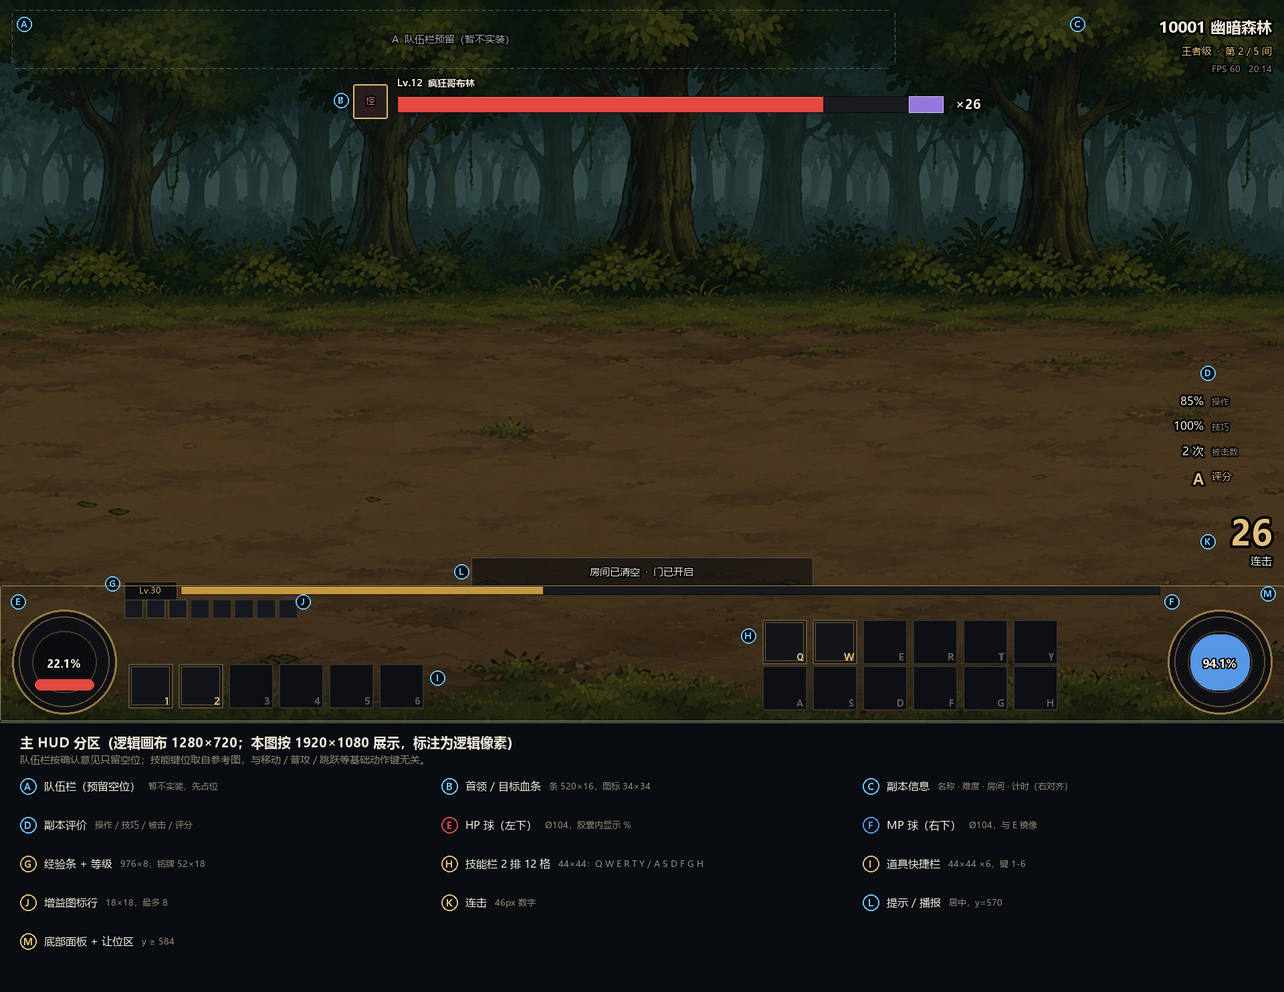
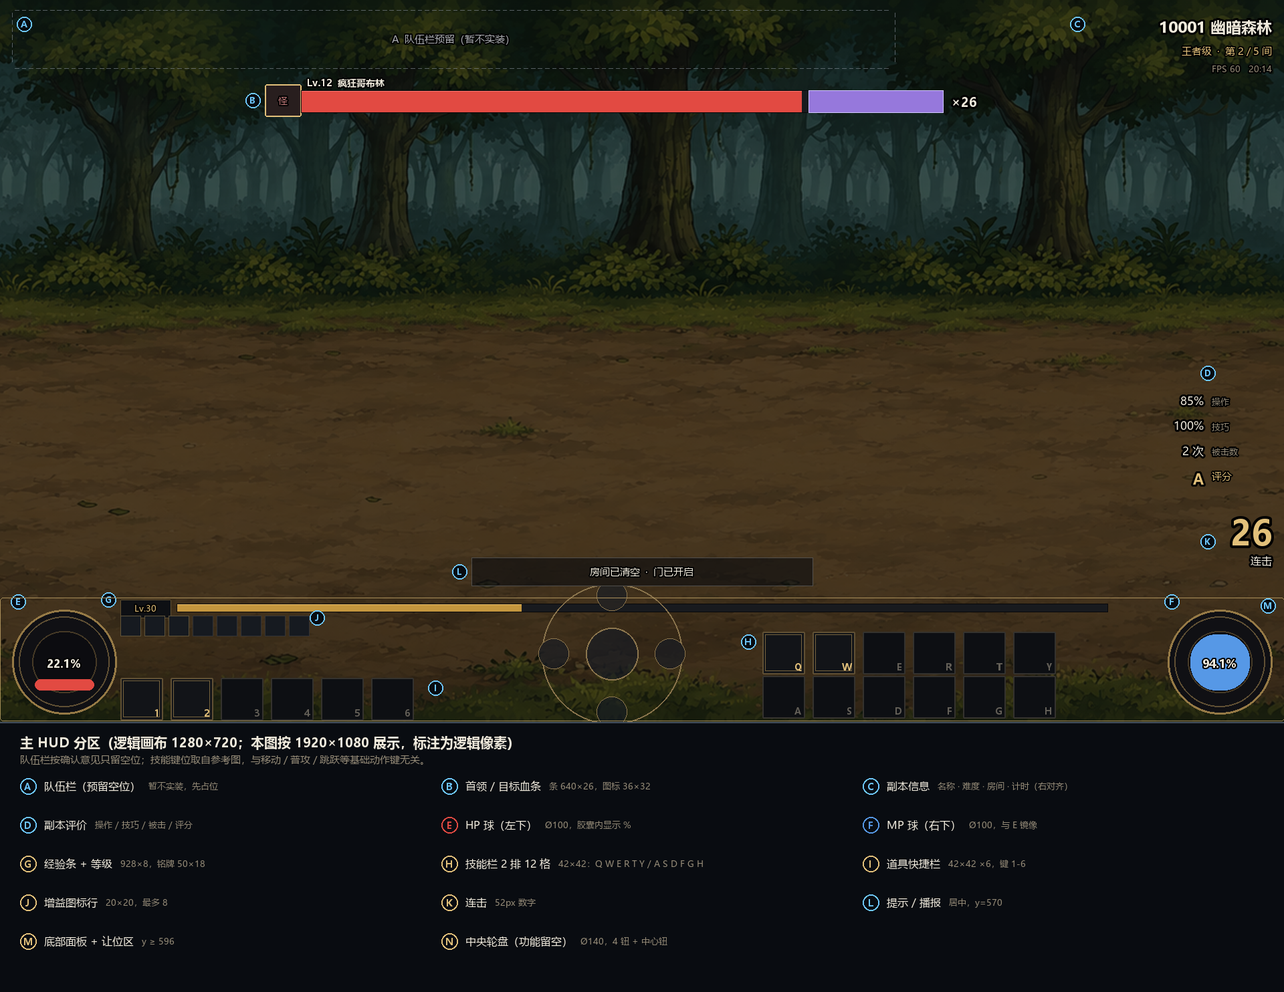
[ws2] 资源：首批生图HUD资产(底板/双球/槽框/轮盘)与1920合成样张；设计同步布局精度与轮盘

diff --git a/docs/design/24_主HUD设计.md b/docs/design/24_主HUD设计.md
@@ -1,157 +1,135 @@
 # 24 主 HUD 设计
 
-状态：草案（2026-10-18 首版；同日按使用者确认意见修订：队伍栏只留空位、技能栏双排 12 格、风格完全参考原图）。尚未实装。
-关联：[11 实机表现层管线](11_实机表现层管线.md) · [16 美术资源总清单](16_美术资源总清单.md) · [22 资产画面规格](22_资产画面规格.md) · [06 文档规范](../project/06_文档规范.md)
+状态：草案（2026-10-18 首版；同日按使用者确认意见修订：队伍栏只留空位、技能栏双排 12 格、风格完全参考原图、中央轮盘要有功能位、所有 UI 资源走生图）。尚未实装。
+关联：[11 实机表现层管线](11_实机表现层管线.md) · [16 美术资源总清单](16_美术资源总清单.md) · [22 资产画面规格](22_资产画面规格.md) · [21 美术目录与资产归档](21_美术目录与资产归档.md)
 
-布局图：[主 HUD 分区布局图](../previews/hud_redesign/layout_spec_1920.png)（1920×1080 线框展示，标注值为 1280×720 逻辑像素）
+- 分区线框：[layout_spec_1920.png](../previews/hud_redesign/layout_spec_1920.png)
+- 首版材质样张（生图资产 + 实机画面合成）：[mockup_1920.png](../previews/hud_redesign/mockup_1920.png)
+- 首批资产与清单：`art/ui/hud/theme_v1/`（`manifest.json` 记录来源、尺寸、用途）
 
 ## 一、结论
 
-- **现行 HUD 的问题**（`game/scripts/hud.gd` 程序绘制版）：信息挤在左上角、技能栏单排且无道具格、无左右下角球体、无经验/评价/增益图标、字体层级弱、整条底栏只有一层半透明渐变，跟参考的"金属底板 + 分区锚定"不是一个结构。按使用者判断"几乎都不对"，**重做而不是修补**。
+- **现行 HUD 的问题**：信息挤左上、技能单排无道具格、无左右球体、无经验/评价/增益、字体层级弱、底栏只有一层半透明渐变；与参考的"金属底板 + 分区锚定"完全不是一个结构，按使用者判断重做。
 - **已确认（2026-10-18）**：
-  1. **队伍栏暂不实装**，只在左上留出空位，以后有组队需求再补；
-  2. **技能栏复刻参考的双排 12 格**，键位取 Q W E R T Y / A S D F G H；这套键位**只用于技能**，与移动、普攻、跳跃等基础动作键（← → ↑ ↓、X、C、Z 等）互不相干；
-  3. **视觉完全参考原图**（暗蓝金属 + 古金浮雕），能做出来的资源就按原图做。
-- **新方案**：13 个分区，全部按四角 / 中轴锚定，逻辑坐标写死、美术按 2K 原生出图；底部主栏（球、经验、道具、技能）作为一组整体让位，保留现行"角色走到路面前沿底栏淡出"的行为。
-- **本期顺序**：P0 骨架 + 程序占位并接真数据 → P1 换底板/球/槽九宫格 → P2 补技能/道具/增益/评分图标 → P3 双分辨率验收。
-- **水印**：参考截图只用于测量分区与比例，不进入仓库、不切像素、不派生任何资产；布局图是重新绘制的线框。此后本项目的 HUD 样张、实机截图、评审板一律不得出现第三方水印或上传者昵称。
+  1. 队伍栏**暂不实装**，只在左上留 880×58 空位；
+  2. 技能栏**双排 12 格**，键位 Q W E R T Y / A S D F G H，只用于技能，与移动/普攻/跳跃等基础动作键无关；格内放什么由玩家自定义，**默认填当前已有技能**（每职业 2 个），其余空槽；
+  3. 视觉**完全参考原图**（藏蓝珐琅 + 古金浮雕）；
+  4. 评价面板**先不做真数据**，只出样式占位；
+  5. 中央圆形轮盘**要做且要留功能**，当前功能先留空；
+  6. **所有 UI 资源必须通过生图生成**（特殊小元素除外），不能用纯色块代替。
+- **本轮已交付**：13 分区布局线框、5 件生图资产（底板/双球/槽框/轮盘）、一张 1920×1080 合成样张；正式实装与图标集未开始。
+- **水印**：参考截图只用于测量，不进入仓库、不切像素；样张与线框均为重绘/生图产物，不含任何第三方水印或昵称。
 
 ## 二、参考图拆解
 
-| 编号 | 参考区域 | 参考里的内容 | 本作现状 / 数据 | 本期取舍 |
-|---|---|---|---|---|
-| A | 队伍 / 自身状态 | 4 人一排：头像+等级角标、名字、HP/MP 双条、下方增益小图标 | 单人游戏，无队伍系统 | **不做，只留 880×58 空位**（虚线框标"预留"） |
-| B | 首领 / 目标血条 | 左类型图标（"人形"）、`Lv61 名字`、红色长条、右端紫色段、右侧 `×26` | 有目标怪 HP、名字、等级；主循环已统计同种存活数 | 做。紫段 = 霸体/护盾（对应 super_armor）；`×N` = 同种剩余 |
-| C | 副本信息 | 右上：副本名 + 难度（王者级）、FPS | 有副本名、`role_label`、房间进度、计时 | 做。FPS 归入调试开关（F3 已有关闭逻辑） |
-| D | 副本评价 | 右侧竖排：操作 85%、技巧 100%、被击 2 次、评分 A | 已统计 `damage_taken / best_chain / hit_count`，`runtime.json` 有 S/A/B 评价表 | 做。被击=受击次数；操作=连段/命中率；技巧=技能与格挡成功；评分沿用配置表 |
-| E/F | HP / MP 球 | 左下、右下齿轮圆框 + 胶囊液面 + 百分比 | HP/MP 数值齐全 | 做。胶囊内 15px 百分比，精确值走 tooltip / 长按 |
-| G | 经验条 + 等级 | `Lv 60` 铭牌 + 横跨中部的橙色长条 | 等级固定 30，无经验系统 | 先做占位（0%）并留数值接口，不显示假进度 |
-| H | 技能栏 | 双排 12 格，格内左上技能等级、右下键位、冷却/禁用态 | 每职业 2 个主动技能 + 格挡/上挑等基础动作 | **双排 12 格**：键位 Q W E R T Y / A S D F G H；当前只填 2 格，其余空置；键位与基础动作键分离 |
-| I | 道具快捷栏 | 6 格，键 1-6，右下数量 | 生命/魔力药水两种 | 6 格，前 2 可用，其余空 |
-| J | 增益图标行 | 技能栏上方一排小图标 | 血怒 buff 与计时 | 做，最多 8 格，带剩余时间描边 |
-| K | 连击 | 大号数字 + "连击" | 主循环已有 combo 与 2.5s 淡出 | 做，窗口右侧 |
-| L | 提示 / 播报 | 屏幕中下提示条 | 已有 `set_feedback` | 做，位置与字号按新底栏重排 |
-| M | 底部面板 | 整条金属底板（含让位） | 现行半透明渐变条（y≥616） | 做。底板 y≥584；让位行为不变 |
+| 编号 | 参考区域 | 本作取舍 |
+|---|---|---|
+| A | 队伍 / 自身状态 | **只留空位**（880×58 虚线占位），暂不渲染 |
+| B | 首领 / 目标血条 | 做：左侧类型图标 34×34、名字+等级、红条、右端紫色霸体段、`×N` 同种剩余 |
+| C | 副本信息 | 做：右上三行（副本名 / 难度·房间 / FPS·计时），右对齐 |
+| D | 副本评价 | 做样式，**占位数据**（操作/技巧/被击/评分），后续再接真数据 |
+| E/F | HP / MP 球 | 做：齿轮环 + 玻璃胶囊 + 百分比，左下 / 右下 |
+| G | 经验条 + 等级 | 做占位（0%），`Lv.30` 铭牌 |
+| H | 技能栏 | 做：2 排 × 6 格（42×42），键位 QWERTY / ASDFGH，技能等级小字 + 冷却/禁用态 |
+| I | 道具快捷栏 | 做：6 格（42×42），键 1-6，右下数量 |
+| J | 增益图标行 | 做：最多 8 个 20×20，带剩余时间底条 |
+| K | 连击 | 做：右侧大数字 + "连击" |
+| L | 提示 / 播报 | 做：中下提示条，2.6s |
+| M | 底部面板 | 做：整条金属底板（y≥596），保留整组让位 |
+| N | 中央圆形轮盘 | 做：4 个圆钮 + 中央八边形钮，**功能留空**（后续放系统快捷），先给占位按钮与键位标注 |
 
-## 三、布局规格
+## 三、布局规格（逻辑 1280×720，样张按 2K 渲染）
 
-- **逻辑画布 1280×720**（`project.godot` 现状），所有坐标写逻辑像素；**美术按 2K 原生出图**（2× 逻辑尺寸），运行时由 `canvas_items` 拉伸，见 [22](22_资产画面规格.md)。
-- 安全边距 12；顶部信息带宽 68；底部主栏带 136（y = 584~720）。
-- 16:9 适配：四角元素贴角锚定，只有横条（B/G/I/H 的排布）允许按中间拉伸；**不能照 4:3 参考图等比套**。
+| 分区 | 锚点 | 逻辑坐标 | 尺寸 / 间距 |
+|---|---|---|---|
+| A 队伍（预留） | 左上 | 12,10 | 880×58 虚线占位 |
+| B 首领条 | 中上 | 图标 300,84；条 300,88→940,114 | 条 640×26，图标 34×34，`×N` 在 948 |
+| C 副本信息 | 右上 | 右对齐 1268，y=18/50/72 | 24/16/13px |
+| D 评价 | 右 | 右对齐 1200，y=392 起，行距 26 | 数值 18px、评分 24px |
+| E HP 球 | 左下 | 圆心 (50,670) | Ø100 |
+| F MP 球 | 右下 | 圆心 (1230,670) | Ø100 |
+| G 经验条 | 左下 | 铭牌 120,598→170,616；条 176,602→1104,610 | 条 928×8 |
+| J 增益行 | 左下 | 120,614 起 | 8 × 20×20，pitch 24 |
+| I 道具栏 | 左 | 120,676 起 | 6 × 42×42，pitch 50 |
+| N 轮盘 | 中下 | 圆心 (610,652) | Ø140，5 个钮 |
+| H 技能栏 | 中右 | 760,630 起 | 12 × 42×42：6 列 × 2 排，列距 50、排距 44 |
+| K 连击 | 右 | 右对齐 1268，y=520 | 数字 52px |
+| L 提示 | 中下 | 470,556→810,584 | 16px 居中 |
+| M 底板 | 整宽 | y=596→720 | 全宽 124 |
 
-| 分区 | 锚点 | 逻辑坐标 | 尺寸 / 间距 | 备注 |
-|---|---|---|---|---|
-| A 队伍（预留） | 左上 | x=12, y=10 | 880×58 虚线占位 | 暂不实装 |
-| B 首领条 | 中上 | 图标 352,84；条 396,96→940,112 | 图标 34×34，条 520×16 | 名字基线 y=76，`×N` 右对齐 x=940 |
-| C 副本信息 | 右上 | 右对齐 x=1268，y=16/44/63 | 名称 21px、副行 14px、FPS 12px | 房间"第 2/5 间" |
-| D 评价 | 右 | 右对齐 x=1200，y=392 起，行距 25 | 数值右对齐、标签左 8px | 评分字母 21px |
-| E HP 球 | 左下 | 圆心 (64,660) | Ø104 | 圆环 3px 金边 |
-| F MP 球 | 右下 | 圆心 (1216,660) | Ø104 | 与 E 镜像 |
-| G 经验条 | 左下 | 铭牌 124,580→176,598；条 180,585→1156,593 | 976×8 | 等级铭牌 52×18 |
-| J 增益行 | 左下 | 124,598 起 | 8 × 18×18，pitch 22 | 位于经验条与槽位之间 |
-| I 道具栏 | 左 | 128,662 起 | 6 × 44×44，pitch 50 | 键位 1-6 |
-| H 技能栏 | 中右 | 760,618 起 | 12 × 44×44：6 列 × 2 排，列距 50、排距 46 | Q W E R T Y / A S D F G H |
-| K 连击 | 右 | 右对齐 x=1268，y=508 | 数字 46px | 2.5s 未命中淡出 |
-| L 提示 | 中下 | 470,556→810,584 | 14px 居中 | 2.6s |
-| M 底板 | 整宽 | y=584→720 | 全宽 | 底栏整体让位 |
-
-> 坐标只作首版基准：实装时允许 ±4px 微调，但凡改动都回填本表；不允许实装与文档两套数。
+> 本轮按参考的**视觉比例**（球径 / 槽位 / 底栏高度 ≈ 屏高的 13% / 6% / 17%）重新对齐，不再用第一版的放大值；实装允许 ±4px 微调并回填本表。
 
 ## 四、组件规格
 
-- **A 队伍（预留）**：只画虚线占位框，不画头像/血条；实装时不占渲染成本。
-- **B 首领条**：类型图标 34×34；条分三段——红（当前 HP）、暗红（掉血残影）、紫（霸体/护盾，只覆盖剩余部分）；`×N` 18px。无目标时整组淡出 0.3s，不占位。
-- **C 副本信息**：三行右对齐；进房时名称淡入 0.4s；房间号随门切换刷新；FPS/计时只在调试开关打开时显示。
-- **D 评价**：四行固定顺序；数值变化时数字滚动 0.2s；评分字母变色（S 金、A 银、B 铜）。
-- **E/F 球**：圆环外圈固定，胶囊内液面高度 = 比例，带 2px 高光与轻微波动；低于 30% 时球体呼吸红闪（HP 球）。
-- **G 经验条**：无经验系统时保持 0% 并显示 `Lv.30`，不伪造进度。
-- **H 技能栏（2 排 12 格）**：格内左上技能等级（`Lv.` 小字）、右下键位；状态：就绪 / 冷却（径向遮罩 + 秒数）/ 蓝量不足（蓝框）/ 禁用（灰度）；未学或未配置的格子保持空槽（与参考一致），不显示假图标。技能槽内容由 `skills.json` 的 `slot` 字段驱动，当前每职业只占 2 格（血怒、怒斩 / 拔刀斩、连突刺），其余空置。
-- **I 槽位**：底框 + 图标 + 右下数量；药水显示剩余次数与冷却。
-- **J 增益**：图标 18×18 + 底部 2px 剩余时间条；到期淡出。
-- **K 连击**：数字从 1.15 倍回落到 1.0 的弹跳；连击 ≥ 10 变金、≥ 30 变橙红。
-- **L 提示**：单行居中，深色底 60% 透明；与播报队列共用，避免叠字。
+- **A**：虚线占位，仅实装期渲染一次静态框。
+- **B**：三段色——红（当前 HP）、暗红（掉血残影）、紫（霸体/护盾）；无目标 0.3s 淡出。
+- **C**：进房名称淡入 0.4s；房间号随门切换刷新；FPS/计时只在调试开关下显示。
+- **D**：四行固定顺序；**当前全部为占位值**，不与战斗数据绑定。
+- **E/F**：胶囊内百分比 20px；低于 30% 呼吸红闪（仅 HP）。
+- **G**：无经验系统时固定 0%，不伪造进度。
+- **H**：左上技能等级、右下键位；状态 = 就绪 / 冷却（径向遮罩+秒数）/ 蓝量不足（蓝框）/ 禁用（灰度）；空格保持空槽。
+- **I**：数量右下、冷却覆盖；空槽不可点。
+- **J**：图标 + 底部 2px 剩余时间条；到期淡出。
+- **K**：连击 ≥10 金、≥30 橙红；2.5s 未命中淡出。
+- **L**：单行居中，与播报队列共用，避免叠字。
+- **N 轮盘**：4 个圆钮（上左右下）+ 中央八边形；本轮**只做按钮与键位占位**，点击/悬停留空接口；后续接系统快捷（背包/属性/技能/任务）。
 
 ## 五、视觉规格
 
-- **方向（已确认）**：完全参考原图的暗蓝金属 + 古金浮雕。底板为深藏蓝珐琅，边为黄铜/古金浮雕，槽位内凹，球体带齿轮环与玻璃胶囊。
-- **材质要点**：外框 2~3px 亮金高光 + 1px 暗金描边；底板四角做卷草纹/铆钉；球环做 12 齿齿轮；槽位内阴影（上暗下亮）；整体加极轻噪点避免纯色塑料感。
+- **方向**：完全参考原图的藏蓝珐琅 + 古金浮雕；底板两端卷草纹、铆钉，槽位内凹，球体齿轮环 + 玻璃胶囊。
+- **色板**：底板 `#141C26`（88%）、内凹 `#0B0F14`、古金 `#8A6B3A` / 高光 `#E2C07A`、文本 `#F0EADC` / 次 `#B7A98E`、HP `#C0262E→#E8453C`、MP `#2B6FB8→#4FA8E8`、评分金 `#E2C07A`。
+- **生图约束**：纯黑底出图 → 边框连通域泛洪去底（保留内部珐琅）→ 按目标尺寸缩放；不允许用色键抠图（会吃掉暗部金属）。
+- **字体**：暂用系统回退字体；正式版建议引入 OFL 中文字体（**待确认**）。
 
-| 用途 | 色值 | 说明 |
-|---|---|---|
-| 底板深蓝 | `#141C26` / 88% | 主面板底 |
-| 底板内凹 | `#0B0F14` | 槽位、球内腔 |
-| 古金边 | `#8A6B3A`，高光 `#E2C07A` | 所有框线、铭牌 |
-| 冷钢 | `#3A4A5A` | 内框、分隔线 |
-| 文本主 | `#F0EADC` | 名字、数值 |
-| 文本次 | `#B7A98E` | 说明、键位 |
-| HP 红 | `#C0262E` → `#E8453C` | 渐变，暗部 `#6E0F16` |
-| MP 蓝 | `#2B6FB8` → `#4FA8E8` | 渐变 |
-| 危险/被击 | `#D8443C` | 低血量、被击提示 |
-| 评分金/银/铜 | `#E2C07A` / `#C9CDD4` / `#B07A48` | S/A/B |
+## 六、资产（首版已生成）
 
-- **字体**：标题/名字用中等字重，数值用等宽数字；中文正文 13~16px。当前用 `ThemeDB` 回退字体，正式版建议引入一套 OFL 中文字体（**待确认**）。
-- **九宫格**：面板边 16、球框不走九宫格（固定 Ø208@2K）、槽框整张；所有可拉伸件在 0.75× 与 1× 下检查糊边。
-
-## 六、资产清单（2K 原生）
-
-| ID | 用途 | 尺寸（2K 原生） | 伸缩 | 备注 |
+| ID | 文件 | 生成尺寸 | 目标尺寸（2K） | 说明 |
 |---|---|---|---|---|
-| `hud.panel.bottom` | 底部整条底板 | 2560×272 | 九宫格 上 32 / 左右 48 | 含让位裁切边界 |
-| `hud.panel.top` | 顶部三段底衬 | 2560×136 | 九宫格 | 可先程序绘制 |
-| `hud.orb.hp` / `hud.orb.mp` | 球体外框 | 208×208 | 固定 | 齿轮环 + 内外两道金边 |
-| `hud.orb.glass` | 球面高光/玻璃 | 208×208 | 固定 | 与液面分层 |
-| `hud.slot.frame` | 技能/道具槽框 | 88×88 | 固定 | 含内凹高光 |
-| `hud.bar.frame` | 首领/HP/MP 长条框 | 32×32 | 九宫格 8 | 1px 金线不可拉伸失真 |
-| `hud.plate.level` | 等级铭牌 | 104×36 | 九宫格 | 文字运行时渲染 |
-| `hud.party.slot` | 队伍位占位框 | 428×116 | 九宫格 | 本期只留空位，可不产 |
-| `hud.rank.plate` | 评分底板 | 240×240 | 九宫格 | 半透明 |
-| `icon.skill.*` | 技能图标（每职业 2 个起） | 88×88 | — | 冷却/禁用变体由代码处理 |
-| `icon.item.*` | 道具图标 | 88×88 | — | 数量文字运行时渲染 |
-| `icon.buff.*` | 增益图标 | 36×36 | — | 先做血怒 |
-| `hud.portrait.*` | 头像裁切 | 84×84 | — | 从头像原图 1:1 裁，圆角由代码裁 |
+| `ui.hud.panel_bottom` | `art/ui/hud/theme_v1/panel_bottom.png` | 1254×222 | 2560×248（两端 260 不拉伸） | 底部底板，九宫格横拉伸 |
+| `ui.hud.orb_hp` | `.../orb_hp.png` | 1247×1254 | Ø200 | 红液面球 |
+| `ui.hud.orb_mp` | `.../orb_mp.png` | 1254×1254 | Ø200 | 蓝液面球 |
+| `ui.hud.slot_frame` | `.../slot_frame.png` | 1242×1195 | 84×84 / 100×100 | 技能、道具共用 |
+| `ui.hud.wheel` | `.../wheel.png` | 1250×1237 | Ø280 | 中央轮盘 |
 
-- 产出方式：新增 tools/bake_hud_theme.py（待建，程序化矢量绘制 → PNG + `manifest.json`，2K 坐标），沿用 `bake_hud.py` 的"唯一美术源 + 清单"思路；不再从 `render_preview.py` 取图。
-- 图标同批交付：技能/道具/增益三类风格必须统一（同一描边、同一光位），不得混用旧符号占位进正式版。
-- **第一件交付物**：底部主栏 2K 材质样张（底板 + 球 + 槽 + 2 个技能图标），合成到实机画面上给使用者看观感；确认后才铺全量。
+- 生成器：image-gen 插件，chatgpt-sub / gpt-image-2.5-flare；每件资产必须有独立文件与 manifest 条目，禁止把整张合成图当资产用。
+- 缺口：技能图标、道具图标、增益图标、轮盘按钮图标、首领条端头、经验条框、底部高光条；下一批全部走生图。
+- 生成分辨率不足的（底板 2K 拉伸端头、球体放大）需重出更高分辨率版本，或按目标尺寸直接生成。
 
 ## 七、实装方案
 
-- **节点结构**（新建 game/scenes/hud.tscn，待建）：`CanvasLayer` → `Control HudRoot` → 分区子节点（`PartyReserved` / `BossBar` / `DungeonInfo` / `RankPanel` / `BottomBar`（内含 `OrbHp`、`OrbMp`、`ExpBar`、`BuffRow`、`SkillGrid`、`ItemRow`）/ `Combo` / `Toast`）。底部整组挂同一父节点，继续整体 `modulate` 让位。
-- **静态/动态分层**：静态层用 `NinePatchRect` / `TextureRect`；液面、冷却径向遮罩、条填充、文字用 `_draw` 或轻量子节点，每帧只重绘变化项。
-- **数据接口**：保留现有 `set_player_info / set_vitals / set_combo / set_target / set_cooldowns / set_dungeon_room / set_elapsed / set_front_occlusion / set_feedback / set_training`，新增 `set_exp(level, cur, max)`、`set_rank(ops, tech, hits, rank)`、`set_buffs(list)`、`set_party(list)`、`set_items(list)`、`set_skill_slots(list)`。旧调用点不得改动语义。
-- **键位**：技能格只绑定技能键（Q W E R T Y / A S D F G H），基础动作（移动、X 普攻、C 跳跃、Z 上挑、V 格挡、↓+C 后跳）不进技能格；`player.gd` 的输入表另立映射，不与 HUD 槽位混用。
-- **刷新策略**：数值变化时刷（`set_*` 内 `queue_redraw`），液面/冷却每帧刷；连击/播报用 `_process` 计时。
-- **回归**：`tools/run_demo.ps1 -Test` 的 369 项不得减少；HUD 只读数据，不改战斗逻辑。截图验收按 [22 四节]：1920×1080 与 2560×1440 各一张，检查字重、糊边、球体液面。
-- **旧资产**：`game/art/hud/*`（V4 烘焙）在 P1 后标记退役，不删除历史；`hud_manifest.json` 保留作对照。
+- 节点结构（新建 game/scenes/hud.tscn，待建）：`CanvasLayer` → `HudRoot` → 分区节点；底部整组一个父节点做整体让位。
+- 静态层 `NinePatchRect`/`TextureRect`；液面、冷却、条填充、文字用 `_draw` 或轻量子节点。
+- 数据接口保留现有 `set_*`，新增 `set_exp / set_rank / set_buffs / set_party / set_items / set_skill_slots / set_wheel`（轮盘本轮空实现）。
+- 技能格内容由 `skills.json` 的 `slot` 字段驱动，默认当前技能；玩家自定义后由存档覆盖。
+- 键位：技能键 QWERTY/ASDFGH 与基础动作键分开注册，互不覆盖。
+- 回归：`tools/run_demo.ps1 -Test` 369 项不得减少；1920×1080 与 2560×1440 截图各一张。
 
 ## 八、分期
 
-| 阶段 | 内容 | 产出 | 验收 |
-|---|---|---|---|
-| P0 | 布局骨架 + 程序占位 + 真数据接线 | `hud.tscn` + 新 `hud.gd`，截图 | 能跑、回归不降、信息层级正确 |
-| P1 | 底板 / 球 / 槽 / 铭牌九宫格 | `bake_hud_theme.py` + 首批 PNG | 1920/2560 双分辨率截图，0.75× 不糊 |
-| P2 | 技能 / 道具 / 增益 / 评分图标 | 图标集 + 冷却/禁用态 | 逐格对比图，风格统一 |
-| P3 | 评价/队伍/经验数据与动效 | 数据接线 + 动效 | 实机试玩 + 视觉评审 |
+| 阶段 | 内容 | 状态 |
+|---|---|---|
+| P0 | 布局线框 + 首版生图资产 + 合成样张 | **本轮到样张** |
+| P1 | 补齐底板端头/首领条/经验条/轮盘按钮的高清资产 | 未开始 |
+| P2 | 技能/道具/增益/评分图标集 + 冷却禁用态 | 未开始 |
+| P3 | 实装进游戏 + 双分辨率验收 | 未开始 |
 
 ## 九、待确认
 
-1. **技能格内容**：目前只填 2 格（血怒、怒斩 / 拔刀斩、连突刺）。格挡、上挑要不要也进格？还是维持基础动作键、不进格？
-2. **评价面板数据**：本期接真数据（被击/技巧），还是先出样式占位？
-3. **右上小地图 / 任务面板**：参考图右上另有一块面板，本期做吗？本作有房间结构，可做简化房间图。
-4. **经验条**：暂无经验系统，先占位还是直接隐藏？
-5. **字体**：是否引入一套 OFL 中文字体（思源黑体 / 霞鹜文楷）替代系统回退？
-6. **中央圆形控件**：参考图底部中间有一个圆形轮盘，本作暂时不做；后续要补的话，用它放系统快捷（背包/属性/技能/任务）还是做纯装饰？
+1. 样张的**整体观感**是否接受（藏蓝+金的饱和度、底板亮度、槽位密度）？
+2. 技能格默认填当前 2 个技能、其余空槽，是否符合预期？
+3. 轮盘 4 个按钮 + 中央钮的位置与数量是否照参考？
+4. 字体是否引入 OFL 中文字体？
+5. 右上小地图/任务面板本轮不做，是否需要补位？
 
 ## 十、验收
 
-- 与参考图逐区对照：位置、层级、可读性；**不比材质精细度**（参考是商业成品，本作按 2K 自制）。
-- 1920×1080 与 2560×1440 实机截图各一张；文字在 0.75× 下可读，无糊边。
-- 底栏让位、连击淡出、冷却遮罩、球体液面四项动效回归。
-- 文档与实装坐标一致（本表为准）。
+- 与参考逐区对照位置与层级；不比材质精细度。
+- 双分辨率截图、0.75× 糊边检查、底栏让位/连击淡出/冷却/液面四项回归。
+- 文档坐标与实装一致。
 
 ## 十一、更新记录
 
 | 日期 | 变更 |
 |---|---|
-| 2026-10-18 | 首版：13 分区拆解、1280×720 布局表、2K 资产清单、P0~P3 分期 |
-| 2026-10-18 | 按确认意见修订：队伍栏只留空位、技能栏改双排 12 格（QWERTY/ASDFGH，与基础动作键分离）、风格改为完全参考原图；底栏上移到 y=584 |
+| 2026-10-18 | 首版：13 分区、布局表、2K 清单、分期 |
+| 2026-10-18 | 按确认意见修订：队伍预留、12 格双排、风格全参考、轮盘留功能位、资产改走生图；新增首版生图资产与合成样张，布局按参考比例重排 |
